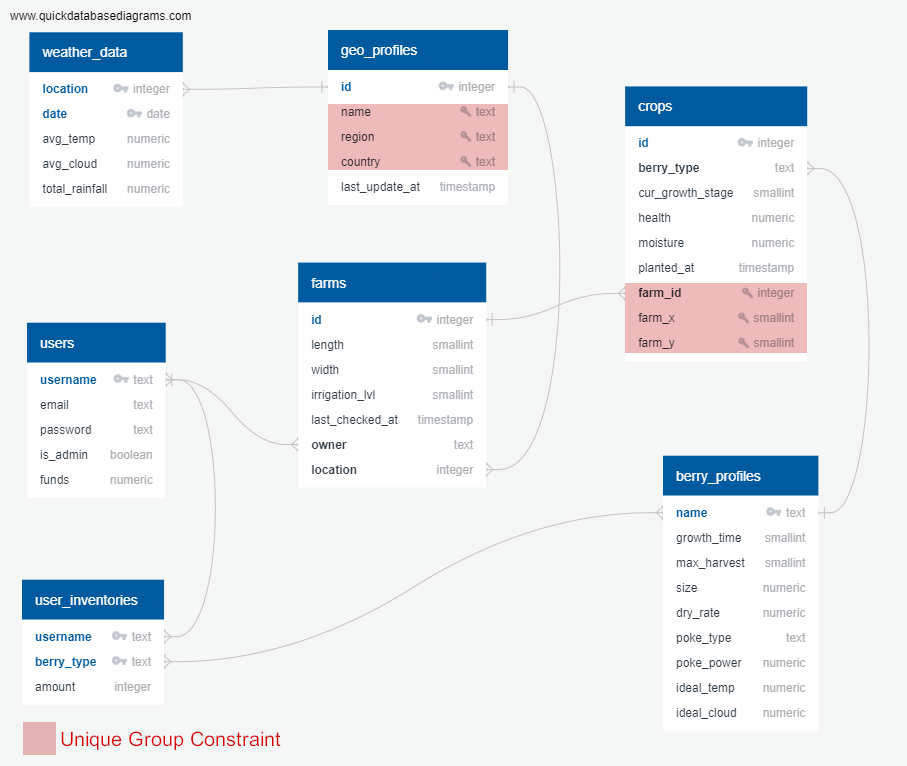
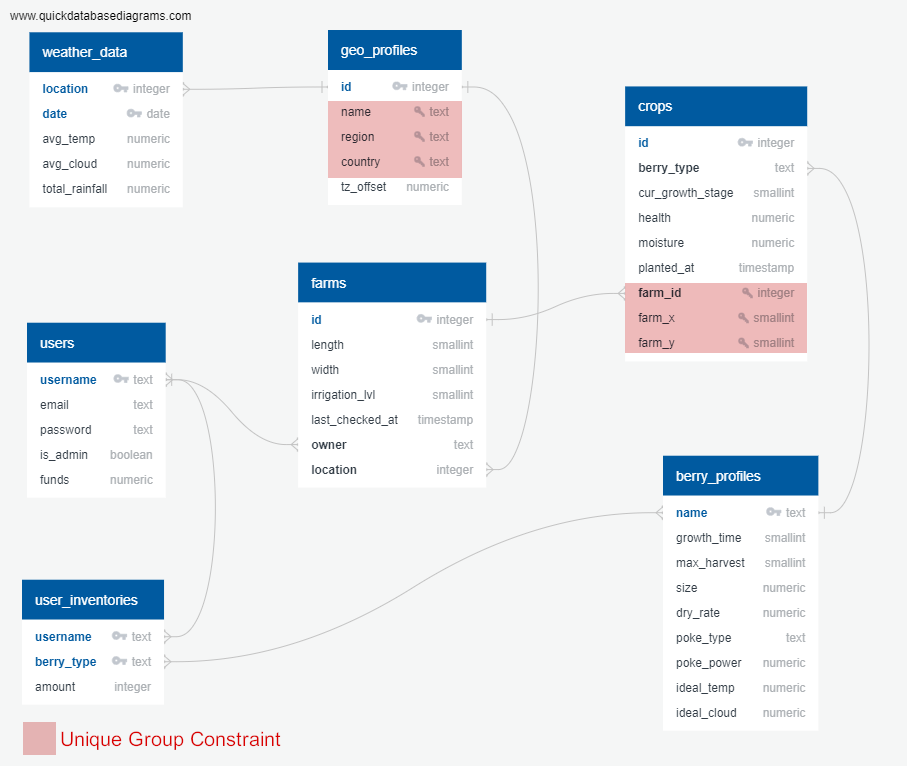
schema update: geo_profiles now stores tz offset, last_update not necessary

Changed region(s): [[0.3705, 0.03, 0.5865, 0.2702]]

diff --git a/backend/models/geoProfiles.ts b/backend/models/geoProfiles.ts
@@ -32,12 +32,14 @@ export default class GeoProfile {
     /** Grab location and weather data from API */
     const res = await WeatherAPI.getWeatherOn(locSearchTerm, dateToHString(today));
     const tableData = WeatherAPI.summaryWeatherData(res);
+    /** Calculate timezone offset */
+    const offset = Math.floor((new Date(res.location.localtime).getTime() - today.getTime()) / 3600000);
     /** Insert data into DB */
     try {
       const q = await db.query(
-        `INSERT INTO geo_profiles (name, region, country)
-         VALUES ($1, $2, $3)
-         RETURNING id`, [tableData.name, tableData.region, tableData.country]
+        `INSERT INTO geo_profiles (name, region, country, tz_offset)
+         VALUES ($1, $2, $3, $4)
+         RETURNING id`, [tableData.name, tableData.region, tableData.country, offset]
       );
       const { id } = q.rows[0];
       await db.query(
@@ -53,6 +55,17 @@ export default class GeoProfile {
     }
   }
 
+  /** Fetches weather data including and between the given start and end dates.
+   *  If weather data for a date is missing in DB, queries WeatherAPI for that data
+   *  and then inserts missing data into DB.
+   * 
+   *  TO DO: It would be nice to utilize a timezone offset derived from the location of the weather data.
+   *  Dates are fetched in accordance with local server time. E.g. Server is GMT+0 and GeoProfile is GMT-8
+   *  At current, after 4 PM, the given location is querying for tomorrow's weather data.
+   *  
+   *  It would be simple to implement in this method, but anywhere the Map this method produces would have to
+   *  be adjusted to convert from DB local server time dates  to timezone adjusted dates.
+   */
   static async getWeatherBetween(locationID:number, start:Date, end:Date) : Promise<Map<string, WeatherMapObject>>{
     // Trim time off startDate and endDate
     const startDate = new Date(start.toDateString());

diff --git a/backend/__tests__/models/geoProfiles.test.ts b/backend/__tests__/models/geoProfiles.test.ts
@@ -54,6 +54,16 @@ describe("create method", () => {
     expect(q.rows[0].avg_cloud).toContain("42.04");
   });
 
+  it("gets timezone offset", async () => {
+    mockedAxios.get.mockResolvedValue({ data: API_RESPONSE });
+    jest.useFakeTimers("modern");
+    // Server time is GMT-8, queried location is GMT+0
+    jest.setSystemTime(new Date("2021-12-10 18:04"));
+    const res = await GeoProfile.create("london");
+    let q = await db.query("SELECT tz_offset FROM geo_profiles WHERE id = $1", [res.id]);
+    expect(q.rows[0].tz_offset).toEqual("8");
+  });
+
   it("throws BadRequestError if location already exists", async () => {
     try {
       await GeoProfile.create('london');
